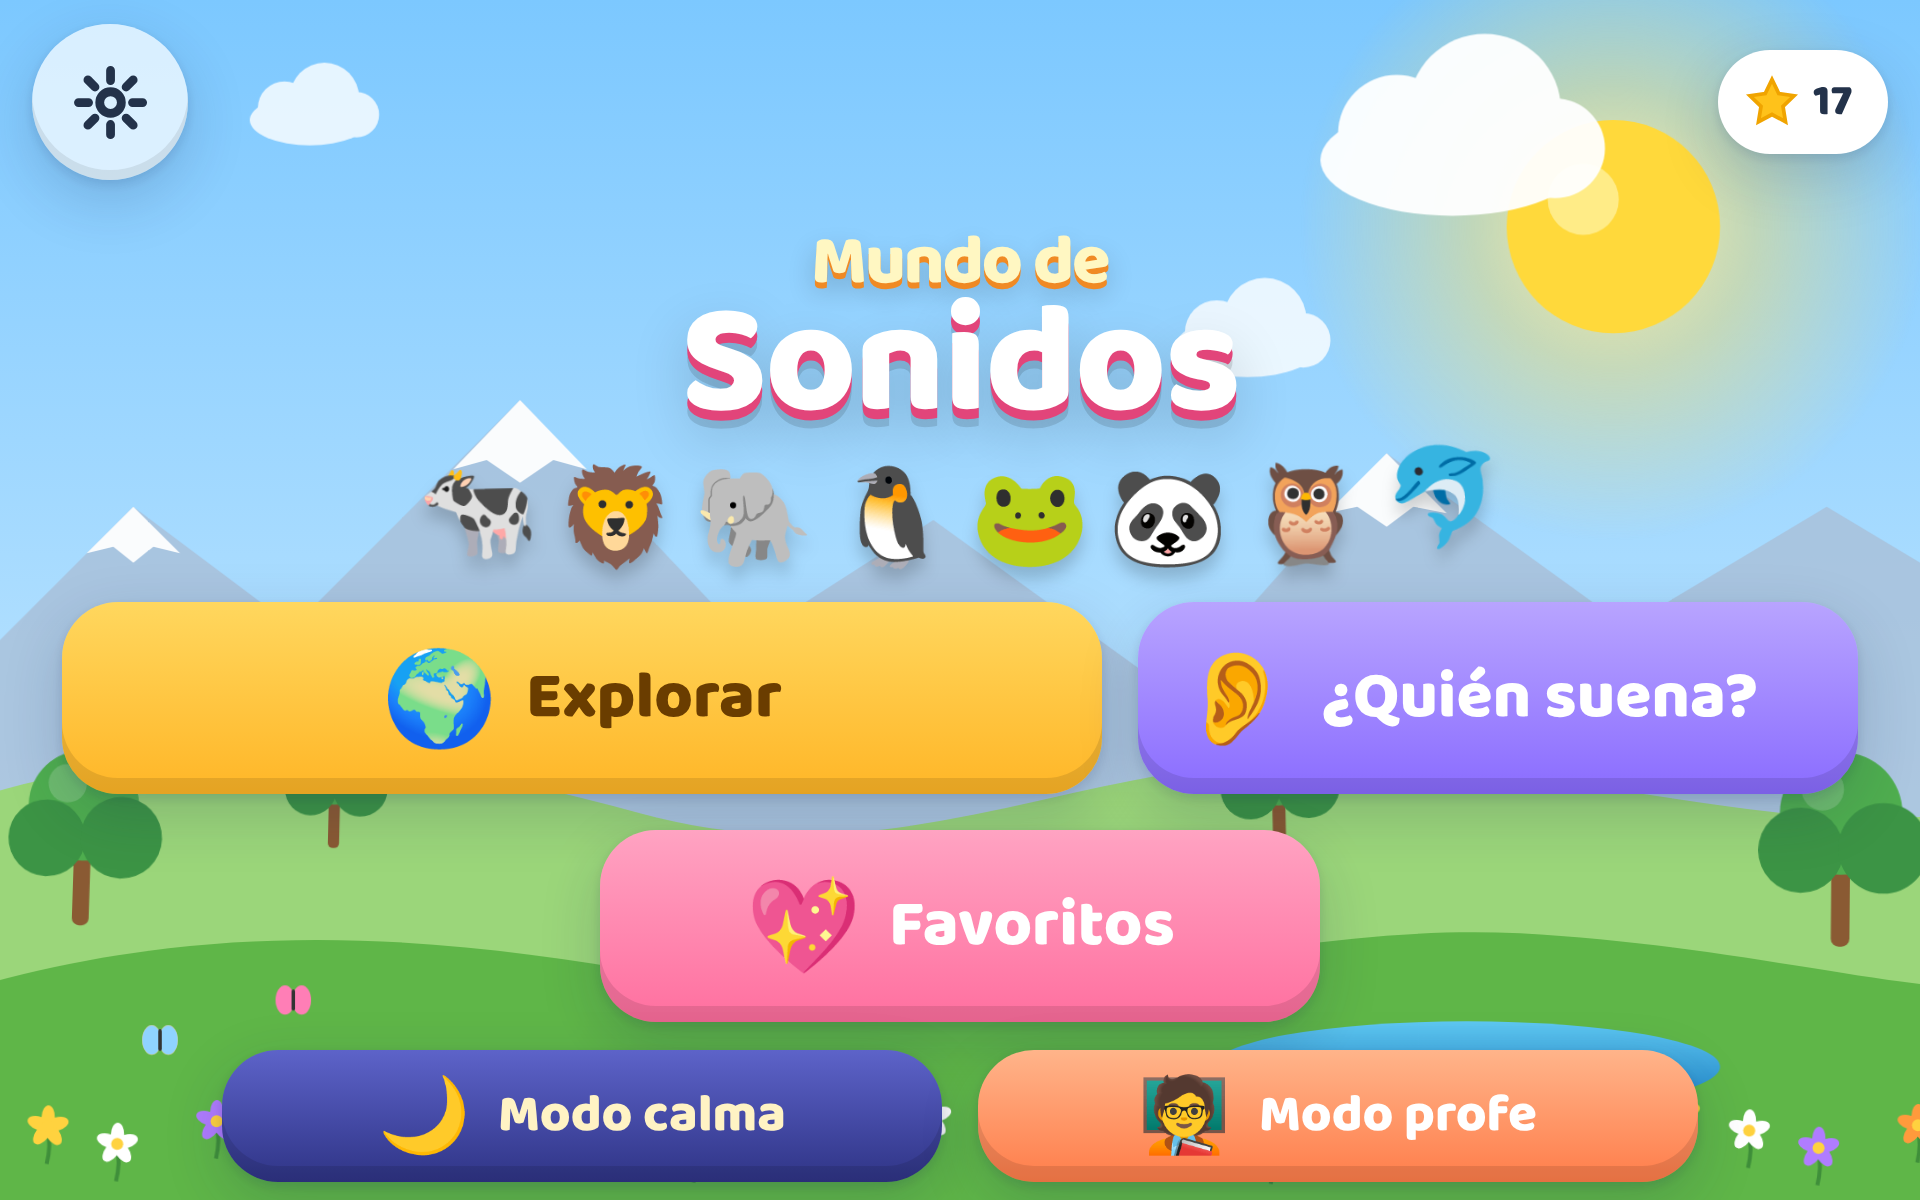
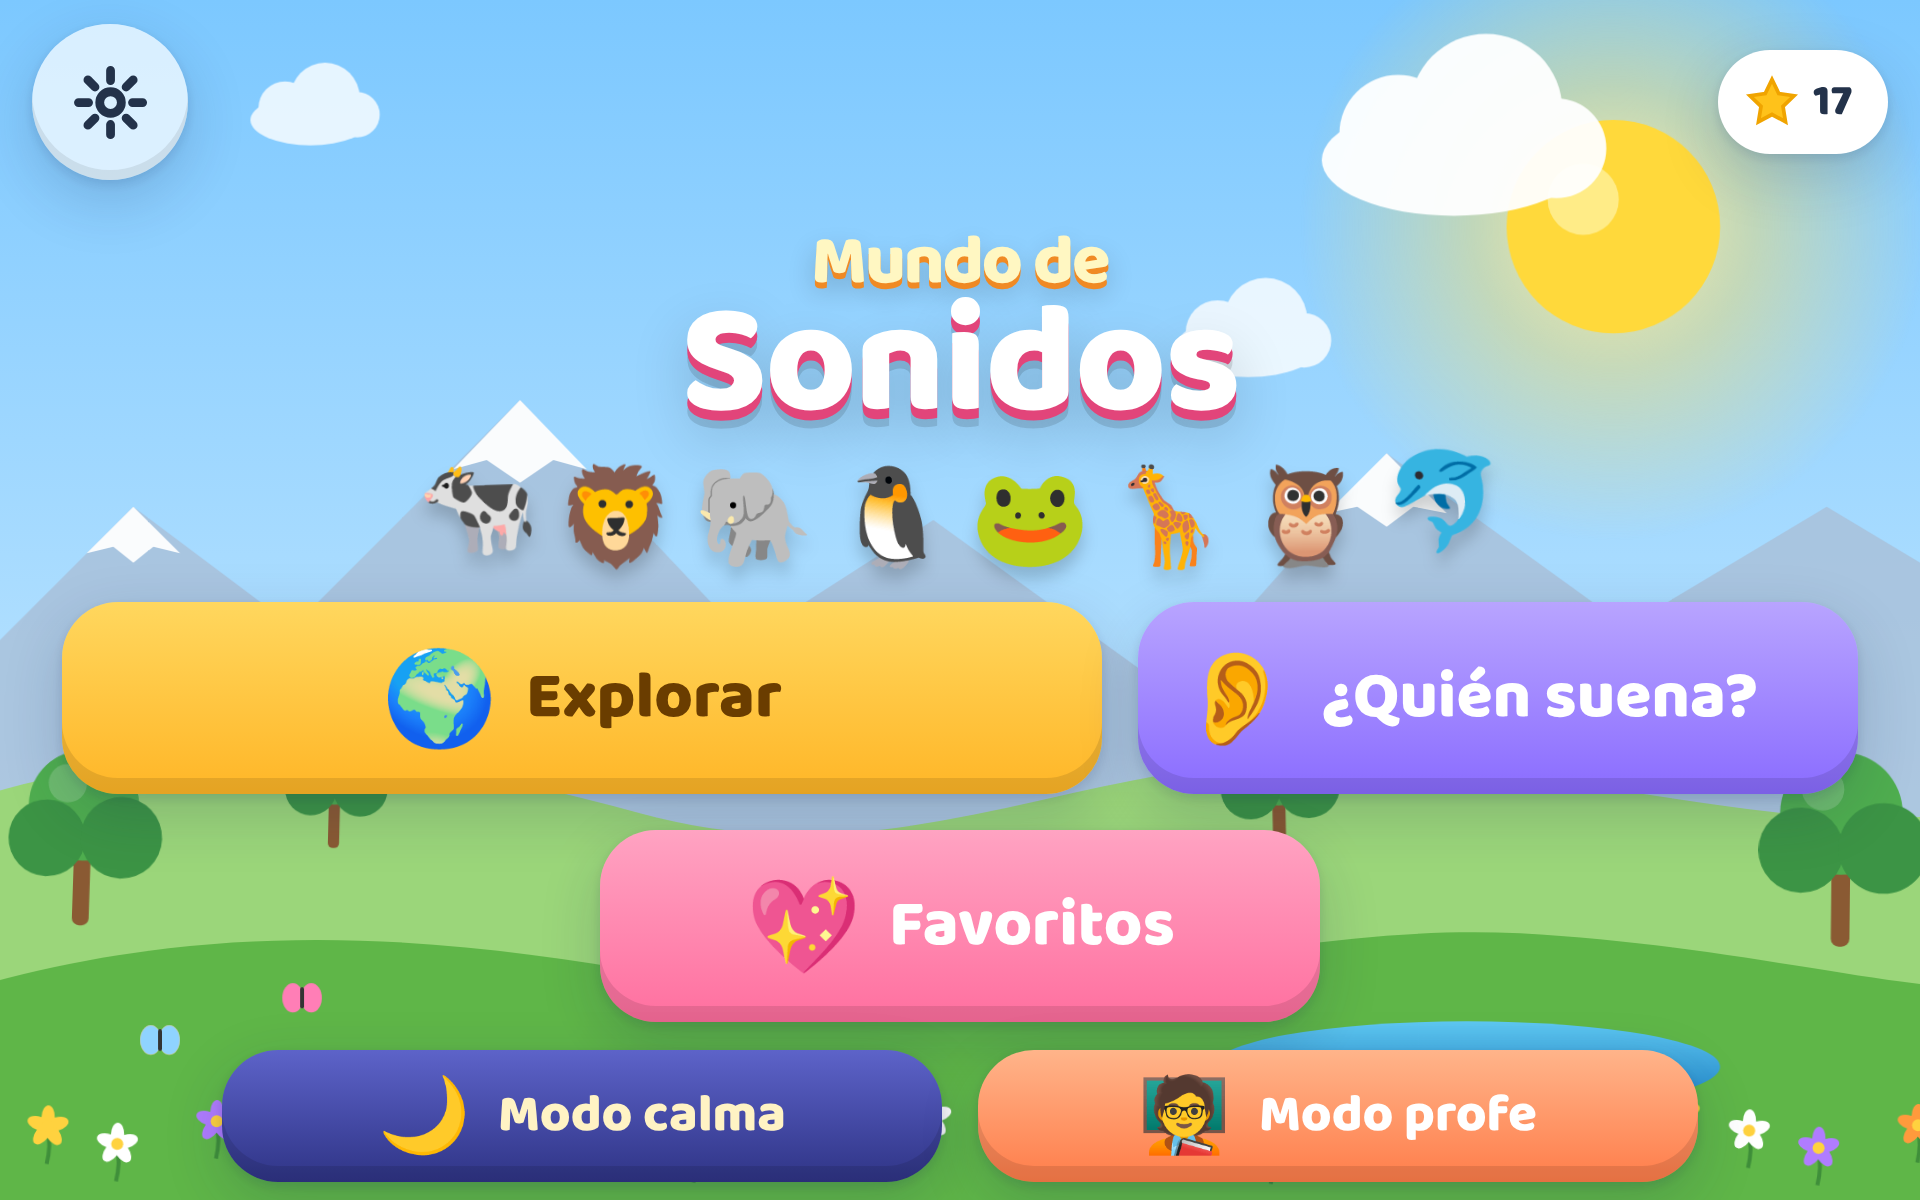
Quitar los 19 animales sin sonido real: los 84 animales tienen grabación real
Claude-Session: https://claude.ai/code/session_01A3ieFjknBjfSfcUiCCWPXz

Changed region(s): [[0.5625, 0.37, 0.7812, 0.4933], [0.2188, 0.37, 0.2812, 0.4625], [0.1562, 0.8017, 0.1875, 0.8325]]

diff --git a/src/data.ts b/src/data.ts
@@ -35,7 +35,7 @@ export const REGIONS: Region[] = [
   { id: 'oceano', emoji: '🌊', name: { es: 'El océano', en: 'The ocean' }, sky: ['#5ab4f0', '#c8ecff'], hills: ['#3f9fd8', '#1f78b4'], accent: '#0d6fb8' },
   { id: 'africa', emoji: '🦁', name: { es: 'África', en: 'Africa' }, sky: ['#ffb36b', '#ffe6b0'], hills: ['#e2b65c', '#c8913a'], accent: '#d9822b' },
   { id: 'america', emoji: '🦅', name: { es: 'América', en: 'America' }, sky: ['#86c5ff', '#e4f4ff'], hills: ['#6cbf73', '#2f8f4e'], accent: '#2f8f4e' },
-  { id: 'asia', emoji: '🐼', name: { es: 'Asia', en: 'Asia' }, sky: ['#ffb8c9', '#fff0e0'], hills: ['#8fcf8f', '#4e9e6a'], accent: '#d94f7a' },
+  { id: 'asia', emoji: '🐯', name: { es: 'Asia', en: 'Asia' }, sky: ['#ffb8c9', '#fff0e0'], hills: ['#8fcf8f', '#4e9e6a'], accent: '#d94f7a' },
   { id: 'europa', emoji: '🦉', name: { es: 'Europa', en: 'Europe' }, sky: ['#9fb8ff', '#eef1ff'], hills: ['#86c27a', '#4f8f45'], accent: '#5b6fd8' },
   { id: 'oceania', emoji: '🦘', name: { es: 'Oceanía', en: 'Oceania' }, sky: ['#ff9f7a', '#ffe1c4'], hills: ['#e08a4f', '#b8612f'], accent: '#c2532a' },
   { id: 'polos', emoji: '🐧', name: { es: 'Los polos', en: 'The poles' }, sky: ['#9fd8ff', '#f2fbff'], hills: ['#e6f4ff', '#c4e2f5'], accent: '#3a8fc8' },
@@ -67,24 +67,20 @@ export const ANIMALS: Animal[] = [
   A('hipopotamo', '🦛', 'africa', false, 'hippo', 'Hipopótamo', 'Hippo', 'Los hipopótamos pasan el día en el agua para no quemarse.', 'Hippos spend the day in water to avoid sunburn.'),
   // América
   A('lobo', '🐺', 'america', false, 'howl', 'Lobo', 'Wolf', 'Los lobos aúllan para encontrar a su manada.', 'Wolves howl to find their pack.'),
-  A('oso', '🐻', 'america', false, 'growl', 'Oso', 'Bear', 'Los osos duermen casi todo el invierno.', 'Bears sleep through most of the winter.'),
   A('loro', '🦜', 'america', true, 'parrot', 'Loro', 'Parrot', 'Algunos loros pueden imitar palabras.', 'Some parrots can copy words.'),
   A('aguila', '🦅', 'america', false, 'eagle', 'Águila', 'Eagle', 'El águila ve un conejo desde muy, muy alto.', 'An eagle can spot a rabbit from very high up.'),
   // Asia
   A('tigre', '🐅', 'asia', false, 'tiger', 'Tigre', 'Tiger', 'No hay dos tigres con las mismas rayas.', 'No two tigers have the same stripes.'),
-  A('panda', '🐼', 'asia', false, 'panda', 'Panda', 'Panda', 'Los pandas comen bambú casi todo el día.', 'Pandas eat bamboo almost all day long.'),
   A('pavo-real', '🦚', 'asia', true, 'peacock', 'Pavo real', 'Peacock', 'El pavo real abre su cola como un abanico gigante.', 'The peacock opens its tail like a giant fan.'),
   // Europa
   A('buho', '🦉', 'europa', false, 'owl', 'Búho', 'Owl', 'Los búhos giran la cabeza casi del todo.', 'Owls can turn their heads almost all the way round.'),
   A('rana', '🐸', 'europa', false, 'frog', 'Rana', 'Frog', 'Las ranas beben agua a través de la piel.', 'Frogs drink water through their skin.'),
   A('cuco', '🐦', 'europa', false, 'cuckoo', 'Cuco', 'Cuckoo', 'El cuco se llama así por su canto: «cu-cú».', 'The cuckoo is named after its song: "cuck-oo".'),
   // Oceanía
-  A('canguro', '🦘', 'oceania', false, 'kangaroo', 'Canguro', 'Kangaroo', 'Las crías de canguro viven en la bolsa de su mamá.', 'Baby kangaroos live in their mum’s pouch.'),
   A('koala', '🐨', 'oceania', false, 'koala', 'Koala', 'Koala', 'Los koalas duermen hasta 20 horas al día.', 'Koalas sleep up to 20 hours a day.'),
   A('kookaburra', '🪶', 'oceania', true, 'kookaburra', 'Cucaburra', 'Kookaburra', 'Su canto parece una carcajada.', 'Its call sounds like laughter.'),
   // Polos
   A('pinguino', '🐧', 'polos', false, 'penguin', 'Pingüino', 'Penguin', 'Los pingüinos no vuelan, pero nadan rapidísimo.', "Penguins can't fly, but they swim super fast."),
-  A('oso-polar', '🐻❄', 'polos', true, 'polar', 'Oso polar', 'Polar bear', 'Bajo su pelo blanco, la piel del oso polar es negra.', "Under its white fur, a polar bear's skin is black."),
   // ---- Ampliación ----
   // Granja
   A('cabra', '🐐', 'granja', false, 'baa', 'Cabra', 'Goat', 'Las cabras trepan a los árboles para comer hojas.', 'Goats climb trees to eat leaves.'),
@@ -100,22 +96,17 @@ export const ANIMALS: Animal[] = [
   A('nutria', '🦦', 'oceano', false, 'squeak', 'Nutria', 'Otter', 'Las nutrias se dan la mano para dormir y no separarse.', 'Otters hold hands while they sleep so they don’t drift apart.'),
   A('gaviota', '🕊', 'oceano', true, 'gull', 'Gaviota', 'Seagull', 'Las gaviotas pueden beber agua salada.', 'Seagulls can drink salty water.'),
   // África
-  A('cebra', '🦓', 'africa', false, 'zebra', 'Cebra', 'Zebra', 'Las cebras ladran como perros pequeñitos.', 'Zebras bark like little dogs.'),
   A('jirafa', '🦒', 'africa', false, 'hum', 'Jirafa', 'Giraffe', 'Las jirafas casi no hacen ruido, pero de noche zumban.', 'Giraffes are very quiet, but they hum at night.'),
   A('rinoceronte', '🦏', 'africa', false, 'hippo', 'Rinoceronte', 'Rhino', 'El cuerno del rinoceronte está hecho de lo mismo que tus uñas.', 'A rhino’s horn is made of the same stuff as your nails.'),
   A('gorila', '🦍', 'africa', false, 'growl', 'Gorila', 'Gorilla', 'Los gorilas se golpean el pecho para saludar o avisar.', 'Gorillas beat their chests to say hello or warn others.'),
-  A('leopardo', '🐆', 'africa', true, 'saw', 'Leopardo', 'Leopard', 'El leopardo sube su comida a los árboles.', 'Leopards carry their food up into trees.'),
   A('flamenco', '🦩', 'africa', true, 'honk', 'Flamenco', 'Flamingo', 'Los flamencos son rosas por lo que comen.', 'Flamingos are pink because of what they eat.'),
   A('camello', '🐫', 'africa', true, 'hippo', 'Camello', 'Camel', 'La joroba del camello guarda grasa, no agua.', 'A camel’s hump stores fat, not water.'),
   // América
   A('bisonte', '🦬', 'america', false, 'growl', 'Bisonte', 'Bison', 'Los bisontes pueden correr tan rápido como un caballo.', 'Bison can run as fast as a horse.'),
   A('mapache', '🦝', 'america', false, 'squeak', 'Mapache', 'Raccoon', 'Los mapaches tocan todo con sus manitas para conocerlo.', 'Raccoons touch everything with their little hands to learn about it.'),
-  A('llama', '🦙', 'america', false, 'hum', 'Llama', 'Llama', 'Las llamas tararean para hablar con sus crías.', 'Llamas hum to talk to their babies.'),
   A('serpiente', '🐍', 'america', false, 'rattle', 'Serpiente de cascabel', 'Rattlesnake', 'Agita la cola como un sonajero para decir «¡no te acerques!».', 'It shakes its tail like a rattle to say "stay away!".'),
   A('alce', '🦌', 'america', true, 'bugle', 'Alce', 'Moose', 'Los alces son grandes nadadores.', 'Moose are great swimmers.'),
-  A('perezoso', '🦥', 'america', true, 'squeak', 'Perezoso', 'Sloth', 'Los perezosos bajan del árbol solo una vez por semana.', 'Sloths come down from their tree only once a week.'),
   // Asia
-  A('orangutan', '🦧', 'asia', false, 'monkey', 'Orangután', 'Orangutan', 'Los orangutanes hacen paraguas con hojas grandes.', 'Orangutans make umbrellas out of big leaves.'),
   A('bufalo', '🐃', 'asia', false, 'moo', 'Búfalo de agua', 'Water buffalo', 'A los búfalos de agua les encanta bañarse en el barro.', 'Water buffalo love bathing in mud.'),
   A('cobra', '🐍', 'asia', true, 'hiss', 'Cobra', 'Cobra', 'La cobra abre su capucha para parecer más grande.', 'A cobra opens its hood to look bigger.'),
   A('grulla', '🐦', 'asia', true, 'honk', 'Grulla', 'Crane', 'Las grullas bailan dando saltos para enamorarse.', 'Cranes dance and jump to find a partner.'),
@@ -130,14 +121,11 @@ export const ANIMALS: Animal[] = [
   A('ciervo', '🦌', 'europa', true, 'bugle', 'Ciervo', 'Deer', 'Al ciervo le crecen cuernos nuevos cada año.', 'Deer grow new antlers every year.'),
   A('paloma', '🕊', 'europa', true, 'coo', 'Paloma', 'Dove', 'Las palomas siempre encuentran el camino a casa.', 'Doves always find their way home.'),
   // Oceanía
-  A('cocodrilo', '🐊', 'oceania', false, 'growl', 'Cocodrilo', 'Crocodile', 'Las mamás cocodrilo llevan a sus crías en la boca.', 'Mother crocodiles carry their babies in their mouths.'),
   A('cacatua', '🦜', 'oceania', false, 'parrot', 'Cacatúa', 'Cockatoo', 'Las cacatúas bailan cuando oyen música.', 'Cockatoos dance when they hear music.'),
   A('tortuga', '🐢', 'oceania', true, 'snuffle', 'Tortuga marina', 'Sea turtle', 'Las tortugas vuelven a la playa donde nacieron.', 'Sea turtles return to the beach where they were born.'),
   // Polos
   A('reno', '🦌', 'polos', false, 'snuffle', 'Reno', 'Reindeer', 'Las rodillas de los renos hacen «clic» al andar.', 'Reindeer knees go "click" when they walk.'),
-  A('morsa', '🦭', 'polos', false, 'hippo', 'Morsa', 'Walrus', 'Las morsas usan sus colmillos para salir del agua.', 'Walruses use their tusks to climb out of the water.'),
   A('buho-nival', '🦉', 'polos', true, 'owl', 'Búho nival', 'Snowy owl', 'El búho nival caza de día porque en verano no anochece.', 'Snowy owls hunt by day because summer nights never get dark.'),
-  A('zorro-artico', '🦊', 'polos', true, 'fox', 'Zorro ártico', 'Arctic fox', 'Su pelo es blanco en invierno y marrón en verano.', 'Its fur is white in winter and brown in summer.'),
   // ---- Ampliación 2 ----
   // Granja y mascotas
   A('cordero', '🐑', 'granja', false, 'baa', 'Cordero', 'Lamb', 'Cada cordero reconoce el balido de su mamá entre cientos.', 'Every lamb knows its mum’s bleat among hundreds.'),
@@ -145,17 +133,12 @@ export const ANIMALS: Animal[] = [
   A('raton', '🐁', 'granja', false, 'squeak', 'Ratón', 'Mouse', 'Los ratones cantan canciones que nosotros no podemos oír.', 'Mice sing songs that we can’t hear.'),
   A('periquito', '🦜', 'granja', true, 'parrot', 'Periquito', 'Budgie', 'Los periquitos pueden aprender palabras.', 'Budgies can learn words.'),
   // Océano
-  A('beluga', '🐳', 'oceano', false, 'dolphin', 'Beluga', 'Beluga', 'La llaman «el canario del mar» porque canta mucho.', 'It’s called "the canary of the sea" because it sings so much.'),
-  A('cachalote', '🐋', 'oceano', true, 'dolphin', 'Cachalote', 'Sperm whale', 'Los cachalotes hablan con chasquidos, como si tocaran a la puerta.', 'Sperm whales talk with clicks, like knocking on a door.'),
   // África
   A('nu', '🐃', 'africa', false, 'growl', 'Ñu', 'Wildebeest', 'Millones de ñus viajan juntos buscando hierba.', 'Millions of wildebeest travel together looking for grass.'),
   A('babuino', '🐒', 'africa', true, 'monkey', 'Babuino', 'Baboon', 'Los babuinos viven en grupos grandes llamados tropas.', 'Baboons live in big groups called troops.'),
-  A('buitre', '🦅', 'africa', true, 'caw', 'Buitre', 'Vulture', 'Los buitres limpian la sabana.', 'Vultures keep the savanna clean.'),
   // América
-  A('jaguar', '🐆', 'america', false, 'saw', 'Jaguar', 'Jaguar', 'Al jaguar le encanta nadar.', 'Jaguars love to swim.'),
   A('mono-aullador', '🐒', 'america', false, 'roar', 'Mono aullador', 'Howler monkey', 'Es el mono más ruidoso: se oye a 5 kilómetros.', 'It’s the loudest monkey: you can hear it 5 kilometres away.'),
   A('coyote', '🐺', 'america', false, 'howl', 'Coyote', 'Coyote', 'Los coyotes «cantan» en grupo por la noche.', 'Coyotes "sing" together at night.'),
-  A('caiman', '🐊', 'america', true, 'growl', 'Caimán', 'Alligator', 'Los caimanes bebés llaman a su mamá desde el huevo.', 'Baby alligators call their mum from inside the egg.'),
   A('rana-arboricola', '🐸', 'america', true, 'frog', 'Rana arborícola', 'Tree frog', 'Tiene ventosas en los dedos para subir a los árboles.', 'It has sticky toes to climb trees.'),
   A('colibri', '🐦', 'america', true, 'buzz', 'Colibrí', 'Hummingbird', 'El colibrí mueve las alas tan rápido que zumban.', 'Hummingbirds flap so fast their wings hum.'),
   // Asia
@@ -173,9 +156,7 @@ export const ANIMALS: Animal[] = [
   A('ave-lira', '🐦', 'oceania', true, 'kookaburra', 'Ave lira', 'Lyrebird', 'Imita cualquier sonido, ¡hasta una cámara de fotos!', 'It can copy any sound – even a camera!'),
   A('zorro-volador', '🦇', 'oceania', true, 'squeak', 'Zorro volador', 'Flying fox', 'Es un murciélago gigante que come fruta.', 'It’s a giant bat that eats fruit.'),
   // Polos
-  A('foca-leopardo', '🦭', 'polos', true, 'whale', 'Foca leopardo', 'Leopard seal', 'Canta bajo el hielo canciones muy extrañas.', 'It sings strange songs under the ice.'),
   A('pinguino-emperador', '🐧', 'polos', false, 'penguin', 'Pingüino emperador', 'Emperor penguin', 'Los papás cuidan el huevo sobre sus patas.', 'Dads keep the egg warm on their feet.'),
-  A('buey-almizclero', '🐂', 'polos', true, 'growl', 'Buey almizclero', 'Musk ox', 'Forman un círculo para proteger a sus crías.', 'They form a circle to protect their babies.'),
 ];
 
 // Grabaciones reales aprobadas (las genera scripts/process-sounds.mjs).

diff --git a/src/screens/parents.ts b/src/screens/parents.ts
@@ -51,7 +51,7 @@ function parentArea(root: HTMLElement, next: string | null) {
       <header class="topbar">${backBtn('/')}<h2>${t('parents')}</h2><span class="spacer"></span></header>
       <div class="panel premium ${next === 'premium' ? 'highlight' : ''}">
         <button class="btn-round close" data-go="/" aria-label="${t('close')}">${icon.close}</button>
-        <div class="premium-emojis">🦁🐼🐨🦜🐻❄</div>
+        <div class="premium-emojis">🦁🐘🐨🦜🐧</div>
         <h3>${store.premium ? t('owned') : t('premiumTitle')}</h3>
         ${store.premium ? '' : `<p>${t('premiumBody')}</p>
         <p class="muted">+${premiumCount} ${store.lang === 'es' ? 'animales y modos extra' : 'animals and extra modes'}</p>

diff --git a/src/screens/home.ts b/src/screens/home.ts
@@ -4,7 +4,7 @@ import { store } from '../store';
 import { icon } from '../ui';
 
 export function home(root: HTMLElement) {
-  const parade = ['🐄', '🦁', '🐘', '🐧', '🐸', '🐼', '🦉', '🐬'];
+  const parade = ['🐄', '🦁', '🐘', '🐧', '🐸', '🦒', '🦉', '🐬'];
   const total = Object.values(store.stars).reduce((a, b) => a + b, 0);
   root.innerHTML = `
     <section class="screen home">
